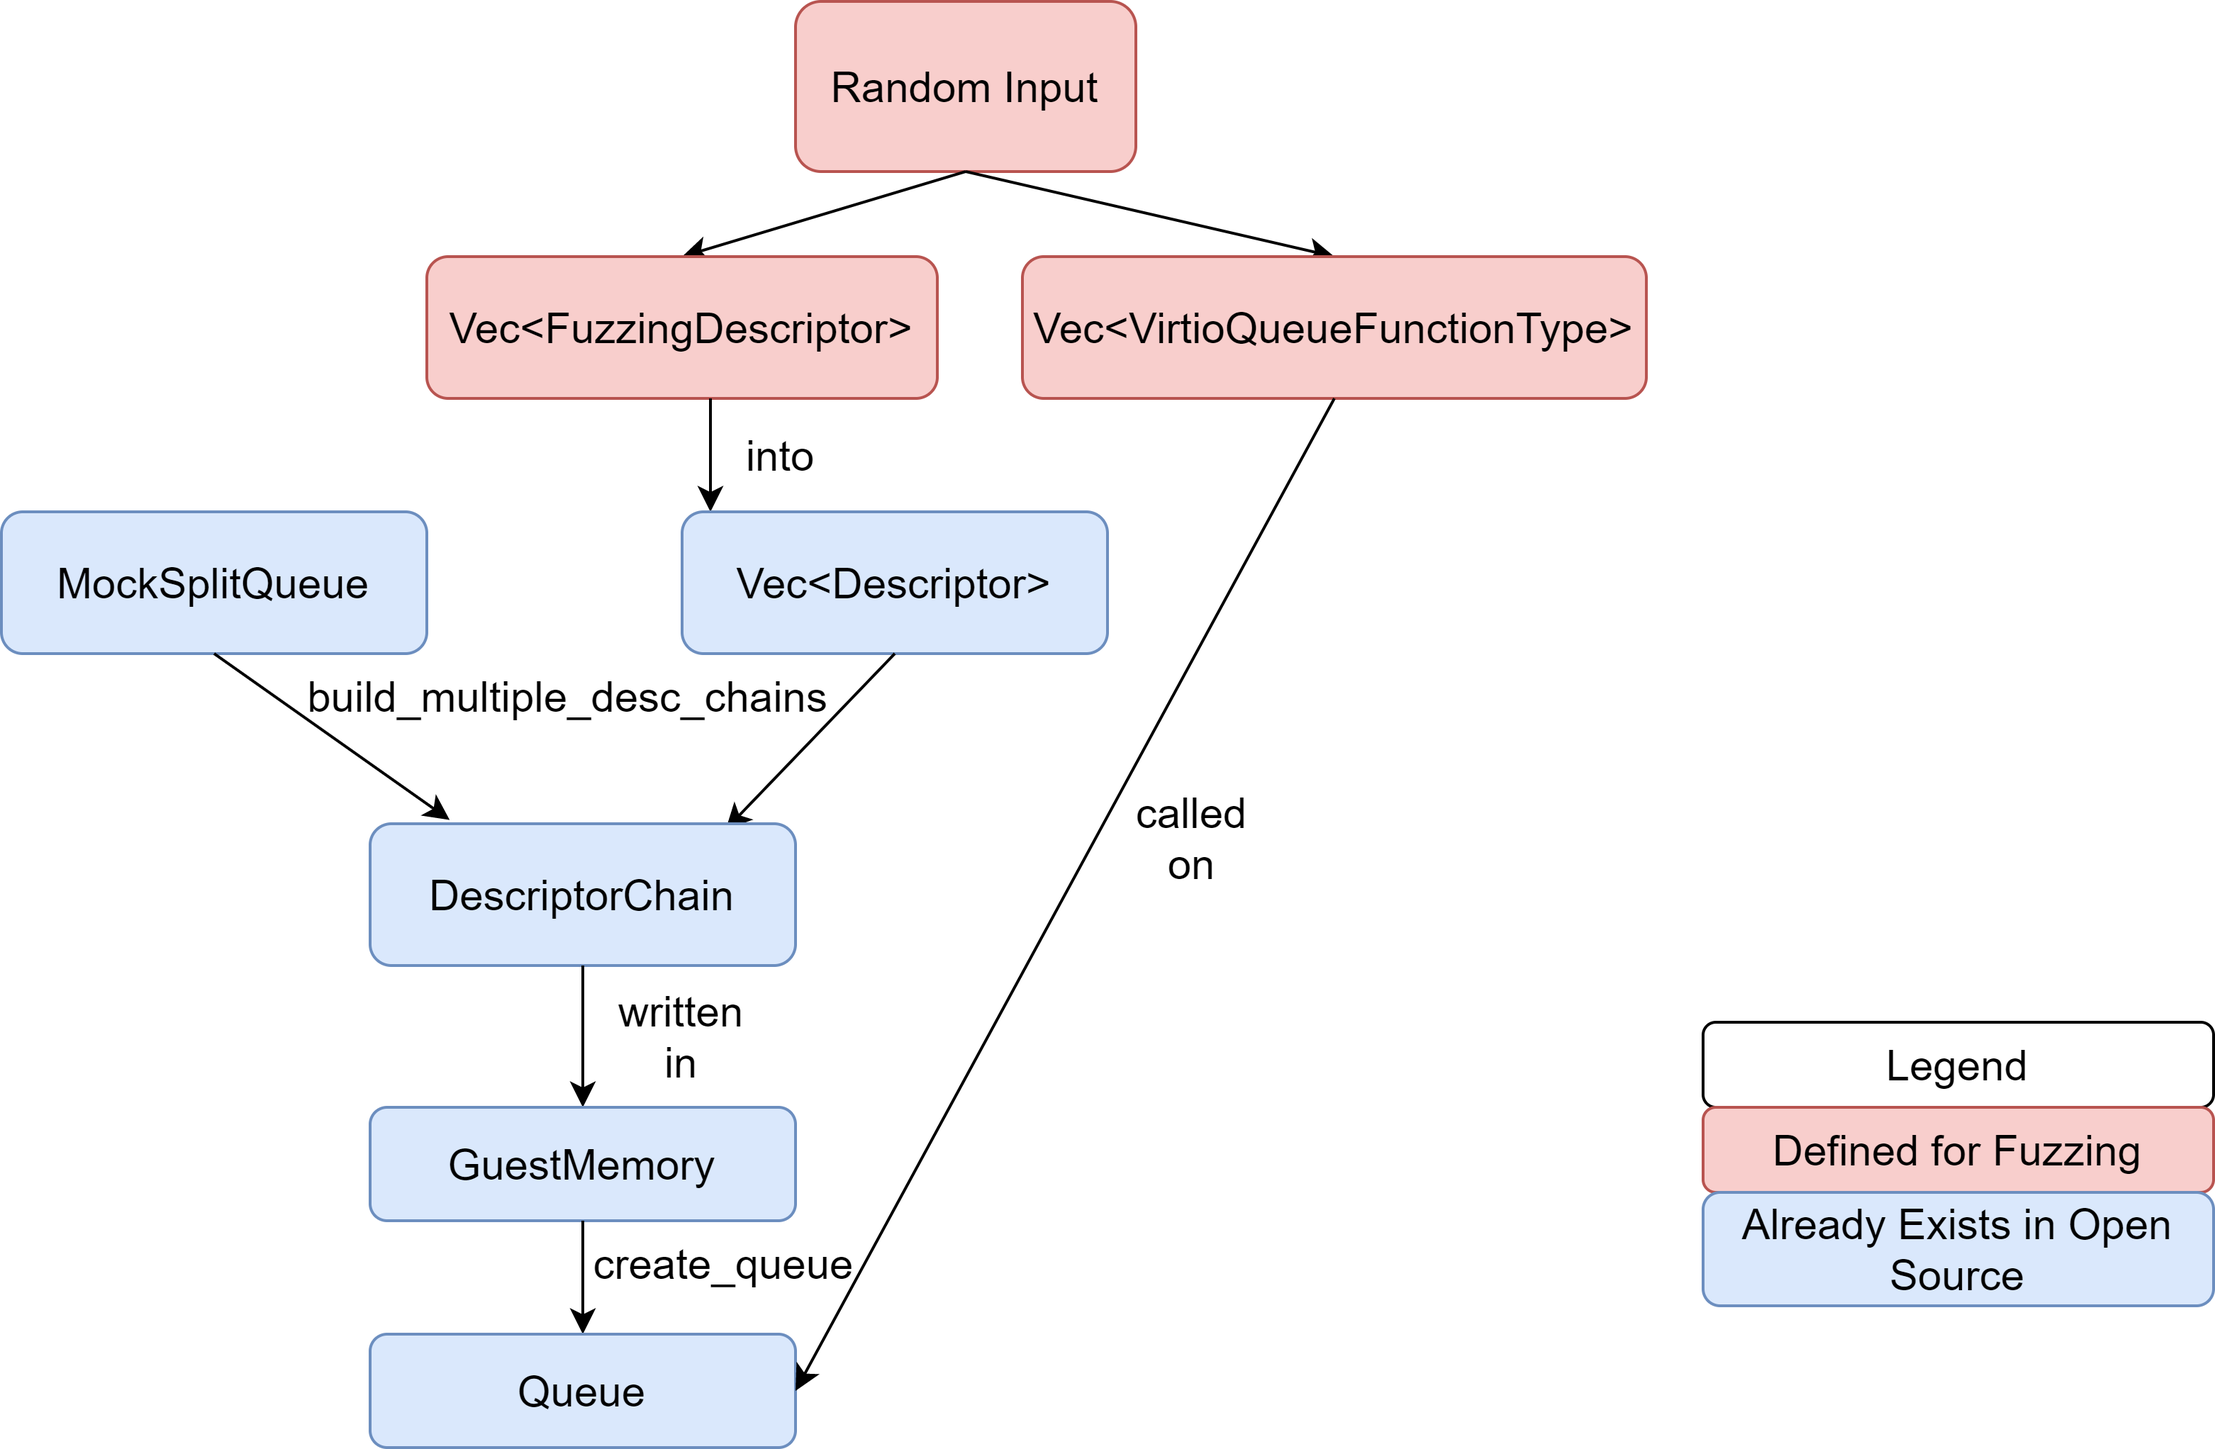
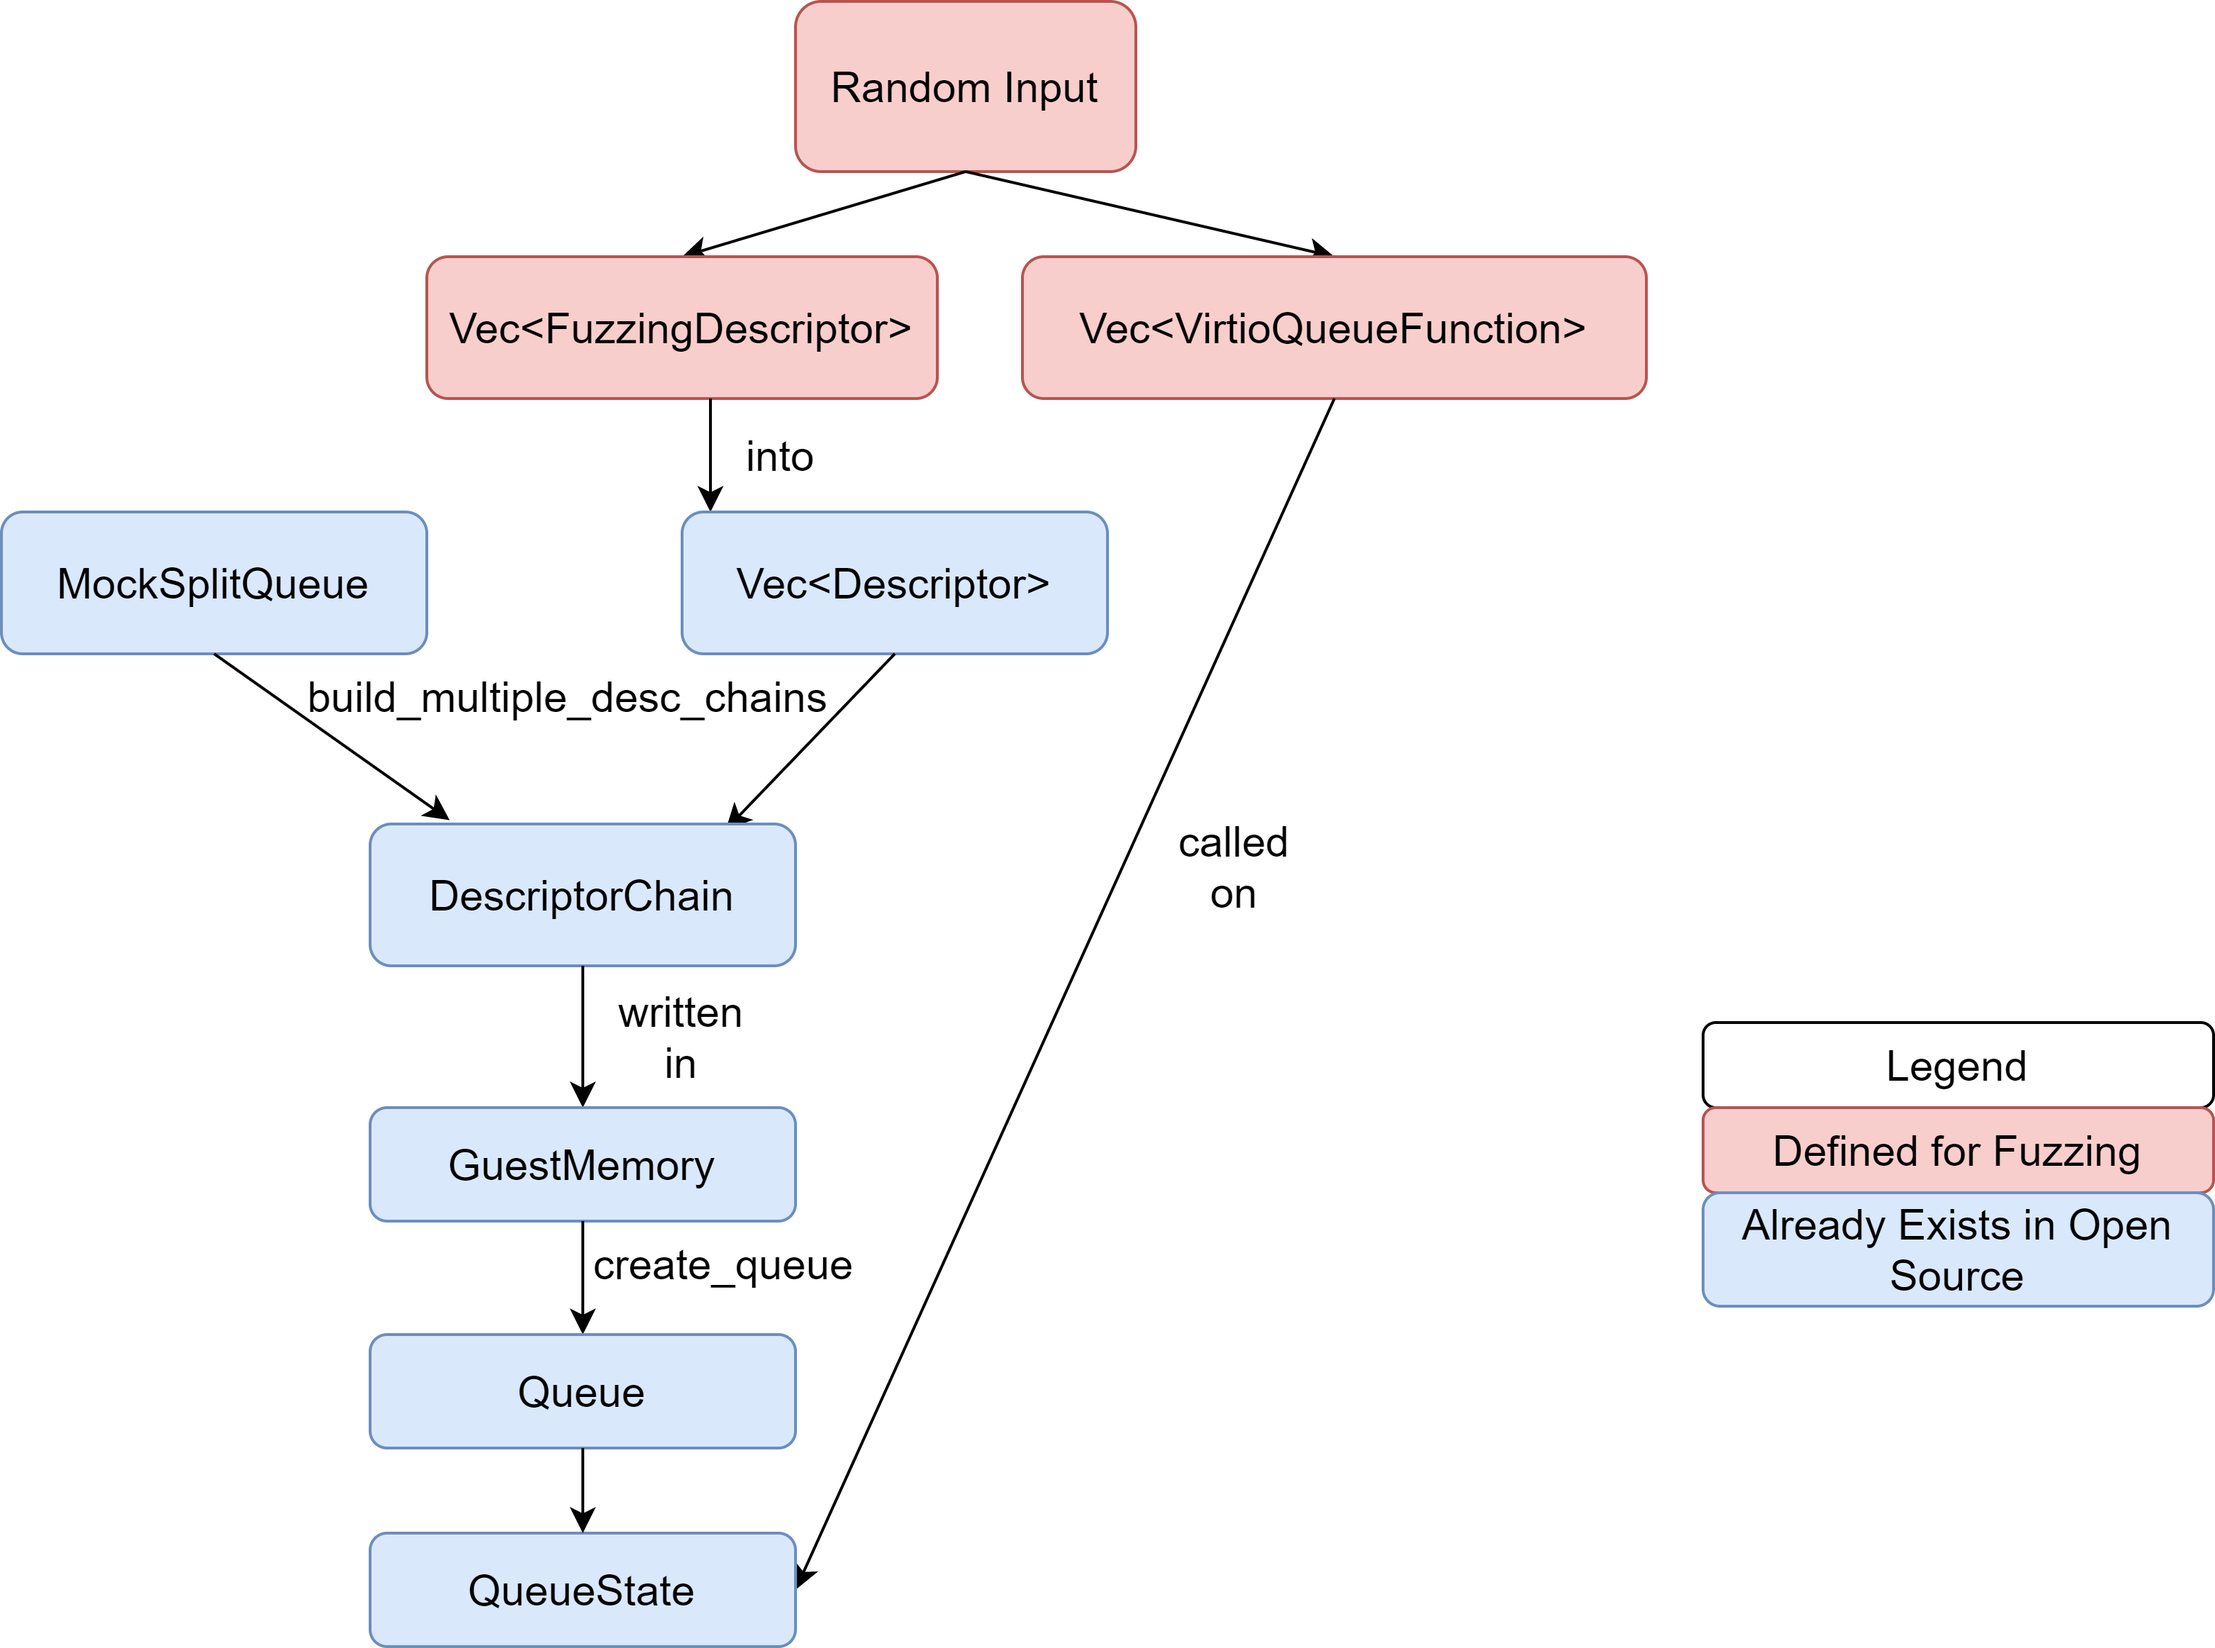
Add fuzzing for QueueState
Add fuzz target for QueueState that receives
a FuzzingQueueStateSer structure that it then
transforms into a QueueStateSer structure
and then into a QueueState structure on
which functions will then be called.
Also, instead of having two enums: one for
virtio_queue and one for QueueState, we now
only have one enum, VirtioQueueFunction, which
includes all of the functions from the QueueStateT
trait implementation. We implement a function, call,
which will be called either on the state of the created
queue (if we fuzz virtio_queue), or on the QueueState
(if we fuzz QueueState).

diff --git a/fuzz/src/lib.rs b/fuzz/src/lib.rs
@@ -1,5 +1,7 @@
 use std::convert::Into;
-use virtio_queue::Descriptor;
+use std::sync::atomic::Ordering;
+use virtio_queue::{Descriptor, QueueState, QueueStateT};
+use vm_memory::GuestMemoryMmap;
 use libfuzzer_sys::arbitrary::Arbitrary;
 
 /// Similar to a Descriptor structure, the only difference is that instead of having fields of types
@@ -21,10 +23,21 @@ pub struct FuzzingDescriptor {
     pub next: u16,
 }
 
-/// The virtio queue functions that are called from the driver side
+// Identical to Ordering except it derives the Arbitrary trait
+#[derive(Arbitrary, Debug, Copy, Clone)]
+pub enum LoadOrdering {
+    Relaxed,
+    Acquire,
+    SeqCst,
+}
+
+/// The QueueState functions
 #[derive(Arbitrary, Debug)]
-pub enum VirtioQueueFunctionType {
+pub enum VirtioQueueFunction {
+    IsValid,
+    Reset,
     MaxSize,
+    Size,
     SetSize { size: u16 },
     Ready,
     SetReady { ready: bool },
@@ -32,12 +45,56 @@ pub enum VirtioQueueFunctionType {
     SetAvailRingAddress { low: Option<u32>, high: Option<u32> },
     SetUsedRingAddress { low: Option<u32>, high: Option<u32> },
     SetEventIdx { enabled: bool },
+    AvailIdx { order: LoadOrdering },
+    UsedIdx { order: LoadOrdering },
+    AddUsed { head_index: u16, len: u32 },
+    EnableNotification,
+    DisableNotification,
+    NeedsNotification,
+    NextAvail,
+    SetNextAvail { next_avail: u16 },
+    NextUsed,
+    SetNextUsed { next_used: u16 },
+    PopDescriptorChain,
 }
 
-#[derive(Arbitrary, Debug)]
-pub struct VirtioQueueInput {
-    pub fuzzing_descriptors: Vec<FuzzingDescriptor>,
-    pub functions: Vec<VirtioQueueFunctionType>,
+impl VirtioQueueFunction {
+    pub fn call(&self, q: &mut QueueState, m: &GuestMemoryMmap ) {
+        match self {
+            VirtioQueueFunction::IsValid => { q.is_valid(m); },
+            VirtioQueueFunction::Reset => { q.reset(); },
+            VirtioQueueFunction::MaxSize => { q.max_size(); },
+            VirtioQueueFunction::Size => { q.size(); },
+            VirtioQueueFunction::SetSize { size } => { q.set_size(*size); },
+            VirtioQueueFunction::Ready => { q.ready(); },
+            VirtioQueueFunction::SetReady { ready }=> { q.set_ready(*ready); },
+            VirtioQueueFunction::SetDescTableAddress { low, high } => { q.set_desc_table_address(*low, *high); },
+            VirtioQueueFunction::SetAvailRingAddress { low, high } => { q.set_avail_ring_address(*low, *high); },
+            VirtioQueueFunction::SetUsedRingAddress { low, high } => { q.set_used_ring_address(*low, *high); },
+            VirtioQueueFunction::SetEventIdx { enabled } => { q.set_event_idx(*enabled); },
+            VirtioQueueFunction::AvailIdx { order } => { let _ = q.avail_idx(m, (*order).into()); },
+            VirtioQueueFunction::UsedIdx { order } => { let _ = q.used_idx(m, (*order).into()); },
+            VirtioQueueFunction::AddUsed { head_index, len } => { let _ = q.add_used(m, *head_index, *len); },
+            VirtioQueueFunction::EnableNotification => { let _ = q.enable_notification(m); },
+            VirtioQueueFunction::DisableNotification => { let _ = q.disable_notification(m); },
+            VirtioQueueFunction::NeedsNotification => { let _ = q.needs_notification(m); },
+            VirtioQueueFunction::NextAvail => { q.next_avail(); },
+            VirtioQueueFunction::SetNextAvail { next_avail } => { q.set_next_avail(*next_avail); },
+            VirtioQueueFunction::NextUsed => { q.next_used(); },
+            VirtioQueueFunction::SetNextUsed { next_used } => { q.set_next_used(*next_used); },
+            VirtioQueueFunction::PopDescriptorChain => { q.pop_descriptor_chain(m); },
+        }
+    }
+}
+
+impl Into<Ordering> for LoadOrdering {
+    fn into(self) -> Ordering {
+        match self {
+            LoadOrdering::Relaxed => Ordering::Relaxed,
+            LoadOrdering::Acquire => Ordering::Acquire,
+            LoadOrdering::SeqCst => Ordering::SeqCst,
+        }
+    }
 }
 
 impl Into<Descriptor> for FuzzingDescriptor {

diff --git a/fuzz/fuzz_targets/virtio_queue_ser.rs b/fuzz/fuzz_targets/virtio_queue_ser.rs
@@ -1,0 +1,64 @@
+#![no_main]
+use rust_vmm_fuzz::{FuzzingDescriptor, VirtioQueueFunction};
+use virtio_queue::{QueueState, Descriptor, mock::MockSplitQueue};
+use virtio_queue_ser::QueueStateSer;
+use vm_memory::{GuestMemoryMmap, GuestAddress};
+use libfuzzer_sys::{fuzz_target, arbitrary::Arbitrary};
+use std::convert::Into;
+
+/// FuzzingQueueStateSer structure is similar to QueueStateSer, except it derives the Arbitrary
+/// trait used for structure-aware fuzzing
+#[derive(Arbitrary, Debug, Copy, Clone)]
+pub struct FuzzingQueueStateSer {
+    pub max_size: u16,
+    pub next_avail: u16,
+    pub next_used: u16,
+    pub event_idx_enabled: bool,
+    pub num_added: u16,
+    pub size: u16,
+    pub ready: bool,
+    pub desc_table: u64,
+    pub avail_ring: u64,
+    pub used_ring: u64,
+}
+
+/// Input generated by the fuzzer for fuzzing QueueState
+#[derive(Arbitrary, Debug)]
+pub struct QueueStateSerInput {
+    pub fuzzing_descriptors: Vec<FuzzingDescriptor>,
+    pub fuzzing_queue_state_ser: FuzzingQueueStateSer,
+    pub functions: Vec<VirtioQueueFunction>,
+}
+
+impl Into<QueueStateSer> for FuzzingQueueStateSer {
+    fn into(self) -> QueueStateSer {
+        QueueStateSer {
+            max_size: self.max_size,
+            next_avail: self.next_avail,
+            next_used: self.next_used,
+            event_idx_enabled: self.event_idx_enabled,
+            num_added: self.num_added,
+            size: self.size,
+            ready: self.ready,
+            desc_table: self.desc_table,
+            avail_ring: self.avail_ring,
+            used_ring: self.used_ring,
+        }
+    }
+}
+
+fuzz_target!(|queue_state_ser_input: QueueStateSerInput| {
+    let m = &GuestMemoryMmap::<()>::from_ranges(&[(GuestAddress(0), 0x10000)]).unwrap();
+    let fuzzing_descriptors = queue_state_ser_input.fuzzing_descriptors;
+    let vq = MockSplitQueue::new(m, fuzzing_descriptors.len() as u16);
+    let mut descriptors: Vec<Descriptor> = Vec::with_capacity(fuzzing_descriptors.len());
+    for fuzzing_descriptor in fuzzing_descriptors {
+        descriptors.push(fuzzing_descriptor.into());
+    }
+    vq.build_multiple_desc_chains(&descriptors[..]);
+    let mut q = QueueState::from(&queue_state_ser_input.fuzzing_queue_state_ser.into());
+
+    for function in queue_state_ser_input.functions {
+        function.call(&mut q, m);
+    }
+});

diff --git a/fuzz/fuzz_targets/virtio_queue.rs b/fuzz/fuzz_targets/virtio_queue.rs
@@ -1,0 +1,28 @@
+#![no_main]
+use rust_vmm_fuzz::{FuzzingDescriptor, VirtioQueueFunction};
+use vm_memory::{GuestAddress, GuestMemoryMmap};
+use virtio_queue::{mock::MockSplitQueue, Descriptor};
+use libfuzzer_sys::{fuzz_target, arbitrary::Arbitrary};
+
+/// Input generated by the fuzzer for fuzzing virtio_queue
+#[derive(Arbitrary, Debug)]
+pub struct VirtioQueueInput {
+    pub fuzzing_descriptors: Vec<FuzzingDescriptor>,
+    pub functions: Vec<VirtioQueueFunction>,
+}
+
+fuzz_target!(|virtio_queue_input: VirtioQueueInput| {
+    let m = &GuestMemoryMmap::<()>::from_ranges(&[(GuestAddress(0), 0x10000)]).unwrap();
+    let fuzzing_descriptors = virtio_queue_input.fuzzing_descriptors;
+    let vq = MockSplitQueue::new(m, fuzzing_descriptors.len() as u16);
+    let mut descriptors: Vec<Descriptor> = Vec::with_capacity(fuzzing_descriptors.len());
+    for fuzzing_descriptor in fuzzing_descriptors {
+        descriptors.push(fuzzing_descriptor.into());
+    }
+    vq.build_multiple_desc_chains(&descriptors[..]);
+    let mut q = vq.create_queue(m);
+
+    for function in virtio_queue_input.functions {
+        function.call(&mut q.state, m);
+    }
+});

diff --git a/fuzz/README.md b/fuzz/README.md
@@ -5,7 +5,7 @@ Driver implementation would do.
 
 This project uses [structure-aware fuzzing](https://rust-fuzz.github.io/book/cargo-fuzz/structure-aware-fuzzing.html).
 When using structure-aware fuzzing, the fuzzer can initialize a user provided structure with random data. This can be 
-achieved by deriving the `Arbitrary` trait on a user defined structure. One of the main components of the virtio-queue 
+achieved by deriving the `Arbitrary` trait on a user defined structure. One of the main components of the `virtio-queue`
 implementation and a structure that we'd like to be able to initialize from random data is the `Descriptor`. As Rust 
 does not allow deriving foreign traits on foreign structure, we created a new structure called `FuzzingDescriptor`.
 This structure contains the same fields as a regular descriptor, except that instead of using `Le64`, `Le32`, `Le16`,
@@ -13,21 +13,36 @@ it uses `u64`, `u32`, `u16`, because the former do not derive the `Arbitrary` tr
 
 ## Fuzzing virtio_queue
 
-For fuzzing virtio_queue we defined another enum called `VirtioQueueFunctionType`, which includes functions that we call
-on the Queue object. Our initial target are functions called exclusively by the driver, but to mimic as close as 
-possible the interactions between a device and a driver, we're also calling the functions that we would normally 
-consider trusted.
+For fuzzing the `QueueState` from the `virtio_queue` crate we defined an enum called `VirtioQueueFunction`, 
+which includes all the functions that we can call on the `QueueState` object. The reason why we use `QueueState` instead of `Queue`
+is explained in this [issue](https://github.com/rust-vmm/vm-virtio/issues/143).
 
-The process of fuzzing a `virtio-queue` object is shown in the picture below:
+The process of fuzzing a `QueueState` object from the `virtio-queue` crate is shown in the picture below:
 
 ![Fuzzing virtio_queue](img/Fuzzing%20virtio-queue.png)
 
 The fuzzer generates random input and, with this input, a Vec of `FuzzingDescriptor` and a Vec of
-`VirtioQueueFunctionType` are initialized. The `FuzzingDescriptor`s are then transformed into regular
+`VirtioQueueFunction` are initialized. The `FuzzingDescriptor`s are then transformed into regular
 `Descriptor`s. A `MockSplitQueue` object is initialized. Using it and the Vector of `Descriptor`s created,
 we create multiple `DescriptorChain`s (using the `build_multiple_desc_chains` defined in `mock.rs`) with which we can
-initialize the `GuestMemory`. Then we use the initialized `GuestMemory` to create a `Queue` object on which we call the 
-functions generated by the fuzzer.
+initialize the `GuestMemory`. Then we use the initialized `GuestMemory` to create a `Queue` object. This `Queue` object
+contains a `QueueState` object on which we call the functions generated by the fuzzer.
+
+## Fuzzing virtio-queue-ser
+
+While we initialized the queue presented in the previous section from a `MockSplitQueue`, we can also create a queue
+starting from a state. For this purpose, we use `QueueState`, more specifically `QueueStateSer` (which is a
+`QueueState` that has serialization capabilities).
+
+The fuzzing process for `QueueState` can be seen below:
+
+![Fuzzing QueueState](img/QueueState.png)
+
+Besides a Vector of `FuzzingDescriptor`s, the fuzzer initializes a `FuzzingQueueStateSer` (identical to a `QueueStateSer`
+structure) and a Vector of `VirtioQueueFunction`s.
+The `GuestMemory` is initialized similarly to the process from `virtio_queue`.
+We then create a `QueueStateSer` object from the `FuzzingQueueStateSer`, and using `QueueStateSer` we create a `QueueState`
+object. We call the functions initialized by the fuzzer on the `QueueState` object, with the help of the `GuestMemory`.
 
 ## To run cargo fuzz
 
